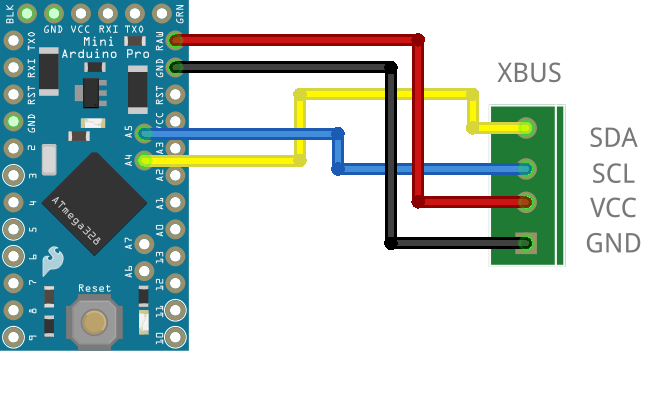
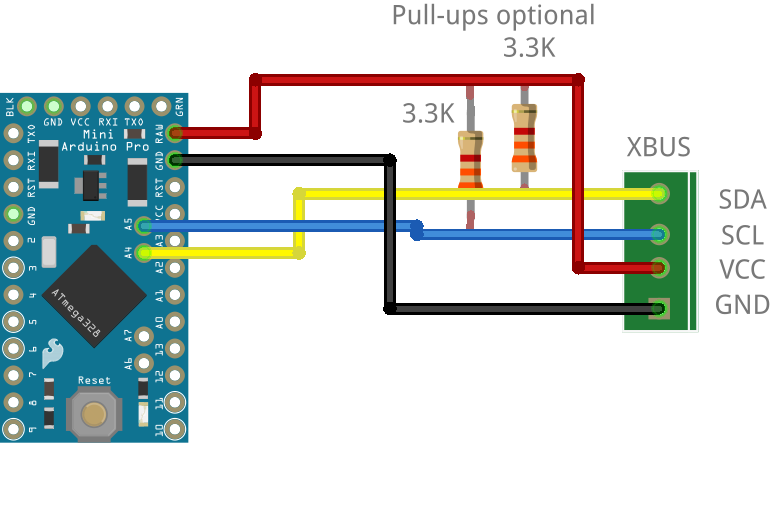
Add Hitec

diff --git a/README.md b/README.md
@@ -141,6 +141,8 @@ If using Teensy LC/3.1/3.5/3.6, it is feasible to use i2c_t3 library by enabling
 <p align="center"><img src="./images/xbus.png" width="300"><br>
   <i>XBUS</i><br><br></p>
 
+It is recommended to add pullup resistors to SDA/SCL lines
+
 If no telemetry is shown, may be MSRC is booting too slow and the first poll from the receiver is not answered. There are several ways to fix this:
 
 1. Power on the receiver after MSRC has started
@@ -152,6 +154,13 @@ If no telemetry is shown, may be MSRC is booting too slow and the first poll fro
 
 <p align="center"><img src="./images/xbus-npn-switch.png" width="300"><br>
   <i>Clock stretch XBUS with transistor</i><br><br></p>
+
+### Hitec
+
+If Vin is a regulated 5V source (e.g. receiver, BEC), pull ups can be connected to Vin/RAW instead Vcc
+
+<p align="center"><img src="./images/hitec.png" width="300"><br>
+  <i>Hitec</i><br><br></p>
 
 ### Jeti Ex Bus
 
